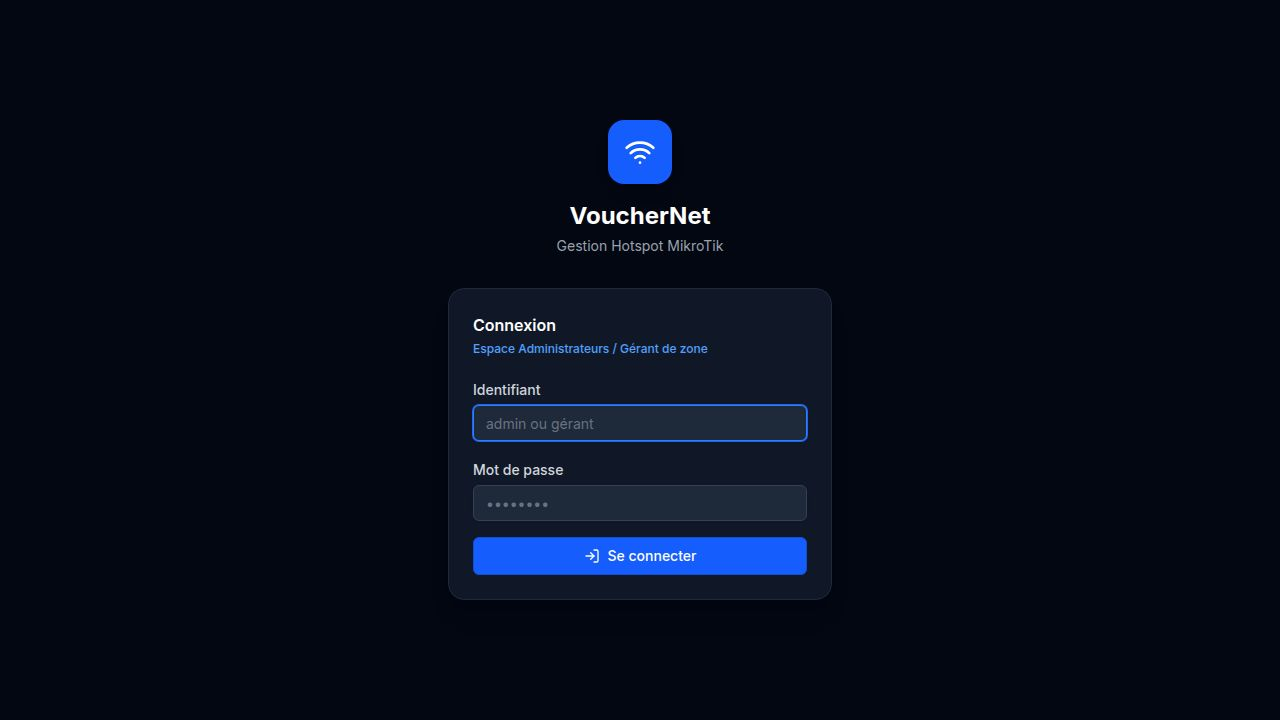
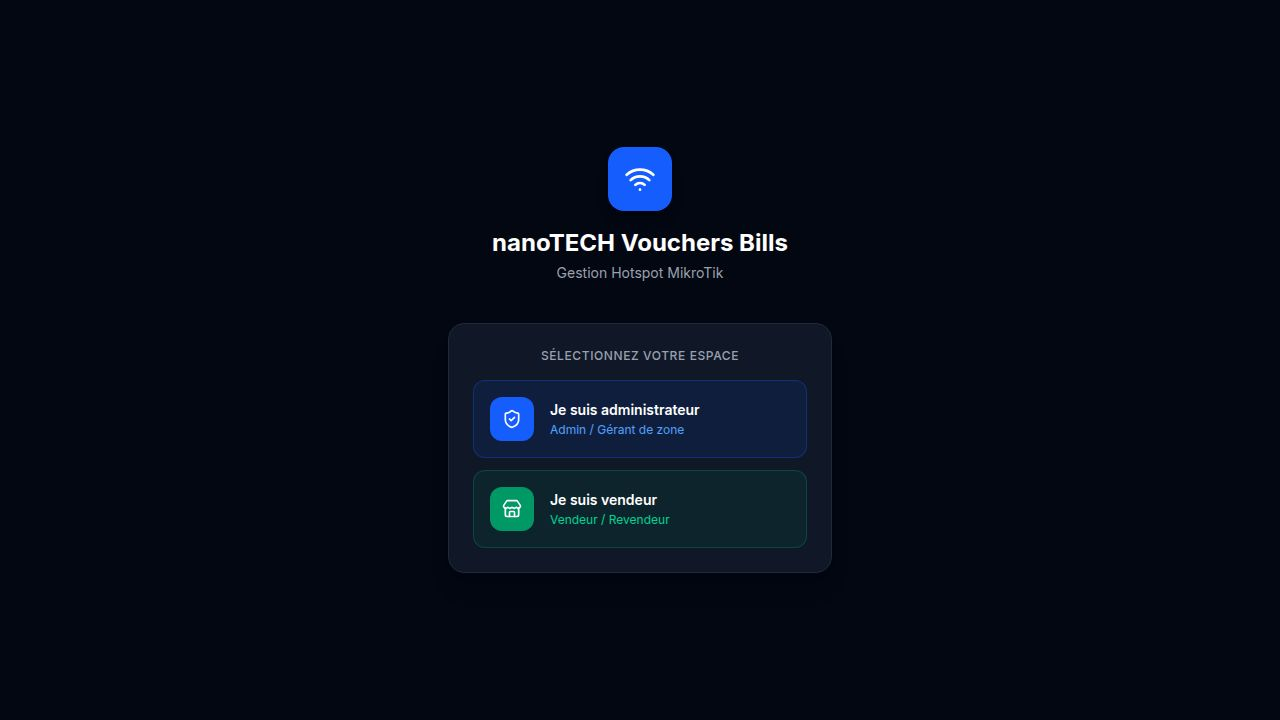
Improve page loading experience with visible skeleton effect
Replaced `useEffect` with `useLayoutEffect` for showing route loading skeleton before page content renders. Adjusted skeleton animation duration to 400ms and enhanced CSS for a more prominent loading bar.

Replit-Commit-Author: Agent
Replit-Commit-Session-Id: 387d6752-f965-410b-bb4f-c93020860d2a
Replit-Commit-Checkpoint-Type: full_checkpoint
Replit-Commit-Event-Id: 2c4a8b6c-c26b-431c-b28b-a0a5a7f5963e
Replit-Commit-Screenshot-Url: https://storage.googleapis.com/screenshot-production-us-central1/fa191c52-18d7-4bf4-9a26-62f4c32fc4c4/387d6752-f965-410b-bb4f-c93020860d2a/uyYZNY0
Replit-Helium-Checkpoint-Created: true

Changed region(s): [[0.3438, 0.4278, 0.6562, 0.825], [0.375, 0.1528, 0.625, 0.3972]]

diff --git a/artifacts/app/src/App.tsx b/artifacts/app/src/App.tsx
@@ -1,4 +1,4 @@
-import { useEffect, useRef, useState } from "react";
+import { useEffect, useLayoutEffect, useRef, useState } from "react";
 import { Switch, Route, Router as WouterRouter, useLocation } from "wouter";
 import { QueryClientProvider, useQueryClient } from "@tanstack/react-query";
 import { Toaster } from "@/components/ui/toaster";
@@ -28,7 +28,7 @@ import NotFound from "@/pages/not-found";
 
 function PageSkeleton() {
   return (
-    <div className="p-4 md:p-6 space-y-6 animate-pulse">
+    <div className="p-4 md:p-6 space-y-6">
       {/* Title bar */}
       <div className="flex items-center justify-between">
         <div className="skeleton h-7 w-48 rounded-md" />
@@ -94,9 +94,10 @@ function AppRoutes() {
     };
   }, [location]);
 
-  useEffect(() => {
+  // useLayoutEffect fires before paint → skeleton shows BEFORE new page content appears
+  useLayoutEffect(() => {
     setIsRouteLoading(true);
-    const timer = window.setTimeout(() => setIsRouteLoading(false), 150);
+    const timer = window.setTimeout(() => setIsRouteLoading(false), 400);
     return () => window.clearTimeout(timer);
   }, [location, routeReloadToken]);
 

diff --git a/artifacts/app/src/index.css b/artifacts/app/src/index.css
@@ -414,17 +414,18 @@
 .topbar-track {
   position: fixed;
   top: 0; left: 0; right: 0;
-  height: 2px;
+  height: 3px;
   z-index: 9999;
   overflow: hidden;
-  background: transparent;
+  background: rgba(59,130,246,0.15);
 }
 .topbar-track::before,
 .topbar-track::after {
   content: '';
   position: absolute;
   top: 0; bottom: 0;
-  background: #3b82f6;
+  background: linear-gradient(90deg, #2563eb, #60a5fa, #2563eb);
+  box-shadow: 0 0 8px #3b82f6, 0 0 2px #93c5fd;
   will-change: left, right;
 }
 .topbar-track::before {